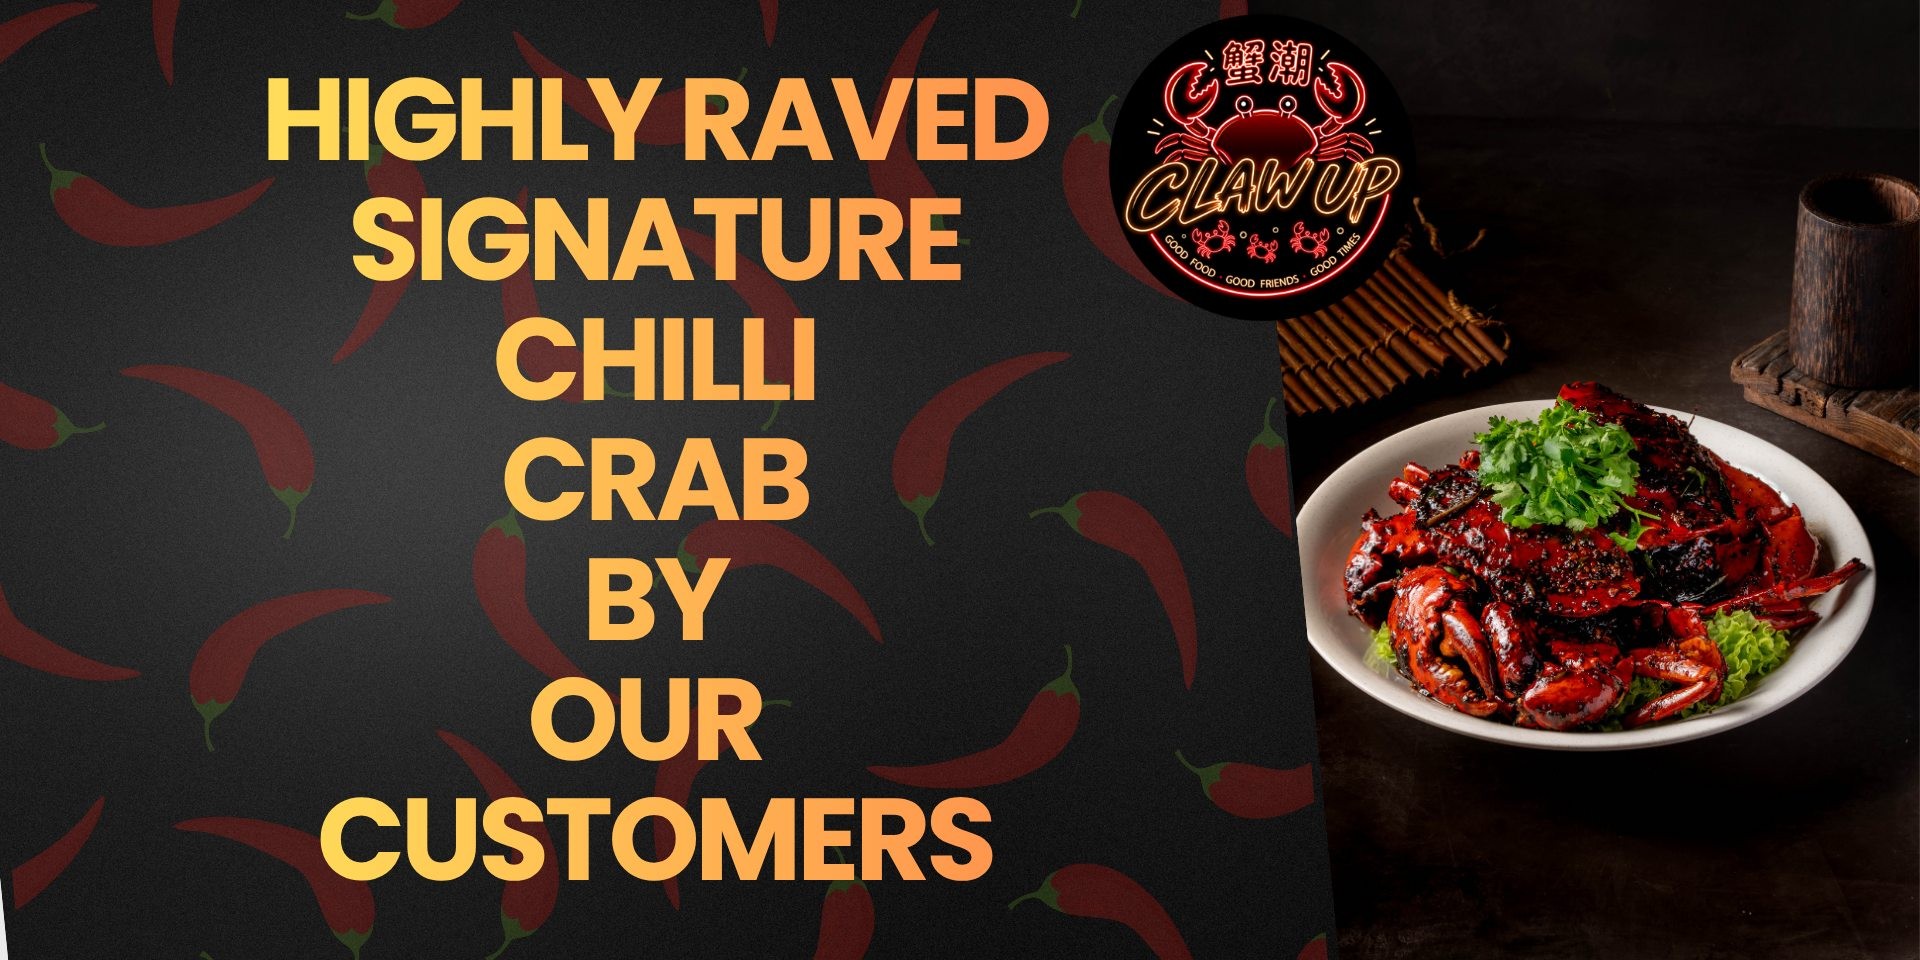
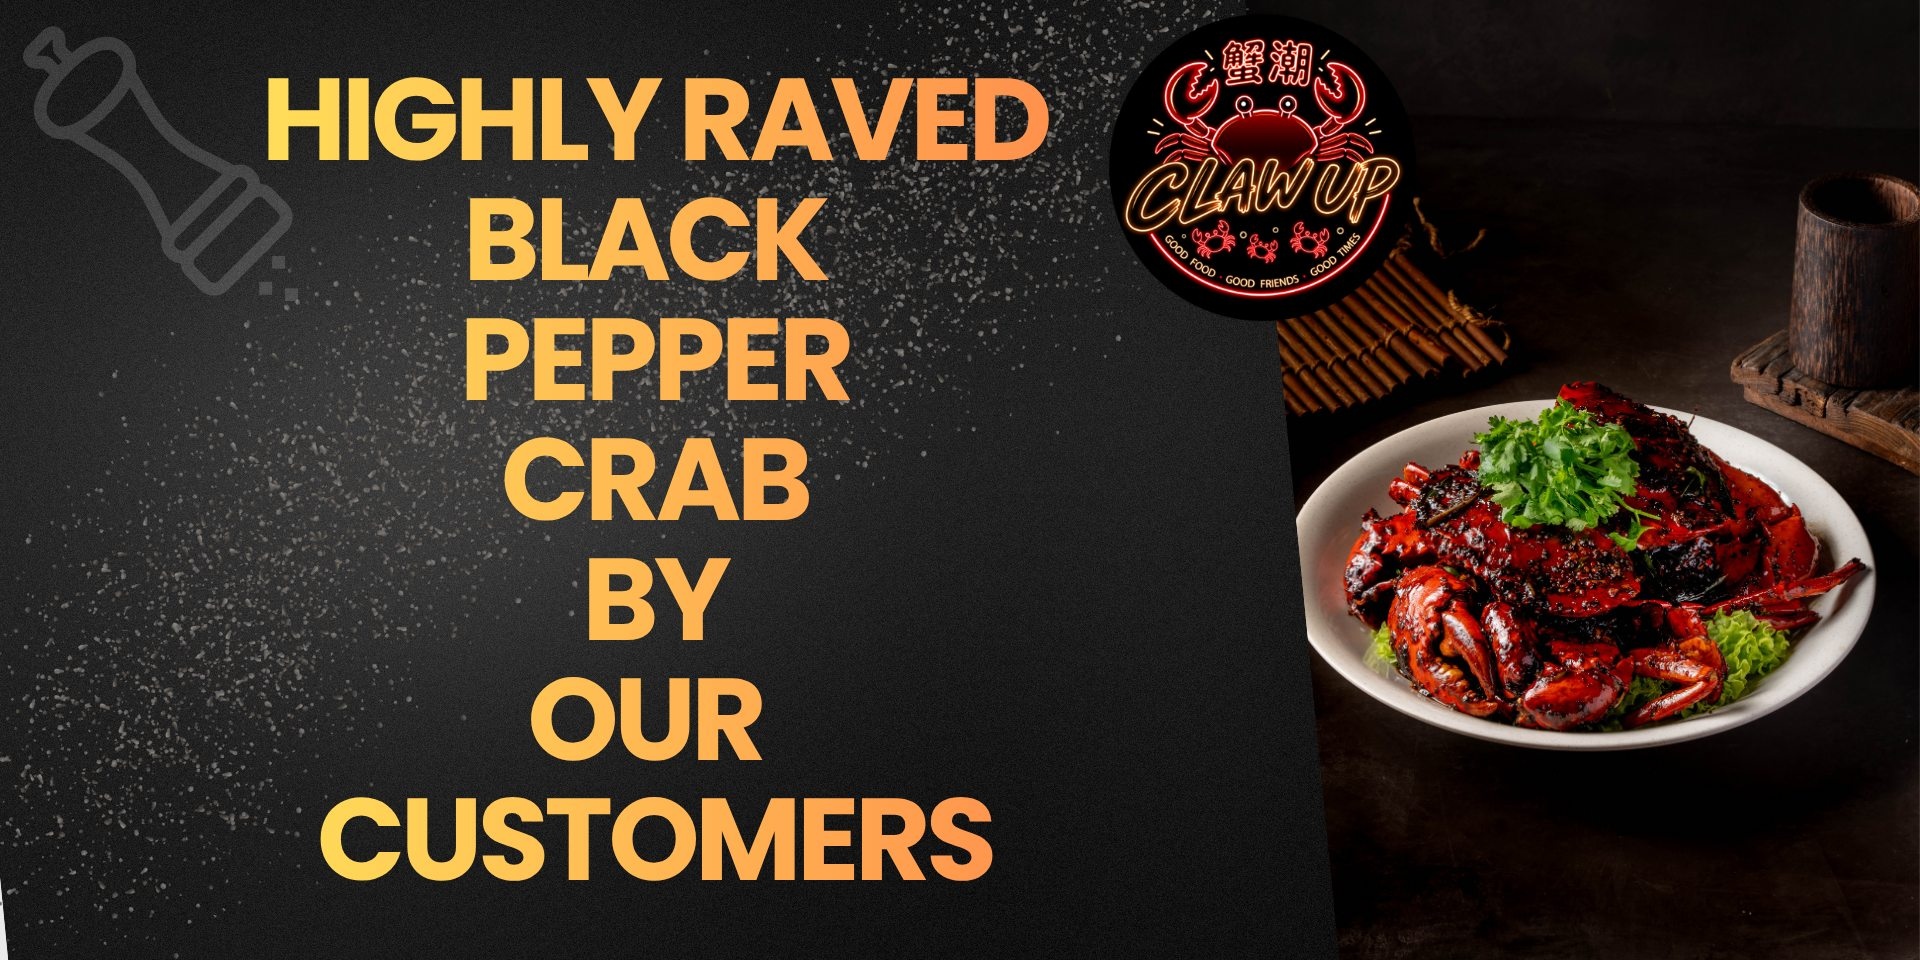
changes

diff --git a/index.html b/index.html
@@ -22,11 +22,11 @@
     <div class="header-actions">
       <a href="https://selforder.ireachfnb.com/checkin/6a7004a13b4923145022e717" class="nav-menu-btn" target="_blank" rel="noopener"><svg viewBox="0 0 24 24" width="16" height="16" fill="none" stroke="currentColor" stroke-width="2.2" stroke-linecap="round" stroke-linejoin="round" aria-hidden="true"><path d="M6 7h12l1 13H5L6 7Z"/><path d="M9 7a3 3 0 0 1 6 0"/></svg><span>Order Now</span></a>
       <nav class="social-nav" aria-label="Social media links">
-        <a href="https://www.facebook.com/Clawupsingapore/" aria-label="Facebook" class="icon-link" target="_blank" rel="noopener">
+        <a href="https://www.facebook.com/profile.php?id=61594282491143" aria-label="Facebook" class="icon-link" target="_blank" rel="noopener">
           <svg viewBox="0 0 24 24" width="18" height="18" fill="currentColor"><path d="M22 12a10 10 0 1 0-11.6 9.9v-7H7.9V12h2.5V9.8c0-2.5 1.5-3.9 3.8-3.9 1.1 0 2.2.2 2.2.2v2.4h-1.2c-1.2 0-1.6.8-1.6 1.6V12h2.8l-.4 2.9h-2.4v7A10 10 0 0 0 22 12Z"/></svg>
         </a>
         <a href="https://www.instagram.com/clawupsingapore/" aria-label="Instagram" class="icon-link" target="_blank" rel="noopener">
-          <svg viewBox="0 0 24 24" width="18" height="18" fill="currentColor"><path d="M12 2c2.7 0 3.06.01 4.12.06 1.06.05 1.79.22 2.43.47a4.9 4.9 0 0 1 1.77 1.15 4.9 4.9 0 0 1 1.15 1.77c.25.64.42 1.37.47 2.43.05 1.06.06 1.42.06 4.12s-.01 3.06-.06 4.12c-.05 1.06-.22 1.79-.47 2.43a4.9 4.9 0 0 1-1.15 1.77 4.9 4.9 0 0 1-1.77 1.15c-.64.25-1.37.42-2.43.47C15.06 21.99 14.7 22 12 22s-3.06-.01-4.12-.06c-1.06-.05-1.79-.22-2.43-.47a4.9 4.9 0 0 1-1.77-1.15 4.9 4.9 0 0 1-1.15-1.77c-.25-.64-.42-1.37-.47-2.43C2.01 15.06 2 14.7 2 12s.01-3.06.06-4.12c.05-1.06.22-1.79.47-2.43a4.9 4.9 0 0 1 1.15-1.77A4.9 4.9 0 0 1 5.45.53C6.09.28 6.82.11 7.88.06 8.94.01 9.3 0 12 0Zm0 5a5 5 0 1 1 0 10 5 5 0 0 1 0-10Zm0 1.8a3.2 3.2 0 1 0 0 6.4 3.2 3.2 0 0 0 0-6.4ZM17.4 4.6a1.2 1.2 0 1 1 0 2.4 1.2 1.2 0 0 1 0-2.4Z" transform="translate(0 2)"/></svg>
+          <svg viewBox="0 0 24 24" width="18" height="18" fill="none" stroke="currentColor" stroke-width="2" aria-hidden="true"><rect x="3" y="3" width="18" height="18" rx="5"/><circle cx="12" cy="12" r="4"/><circle cx="17.5" cy="6.5" r="1" fill="currentColor" stroke="none"/></svg>
         </a>
       </nav>
     </div>
@@ -50,20 +50,23 @@
 <section class="hero page-section" id="top" aria-roledescription="carousel" aria-label="Current promotions">
   <h1 class="visually-hidden">Claw Up Seafood &amp; Zichar</h1>
   <div class="hero-track">
-    <a class="hero-slide" href="https://selforder.ireachfnb.com/checkin/6a7004a13b4923145022e717" target="_blank" rel="noopener" role="group" aria-roledescription="slide" aria-label="1 of 5">
-      <img src="assets/img/hero/hero-1-1920.jpg" srcset="assets/img/hero/hero-1-960.jpg 960w, assets/img/hero/hero-1-1920.jpg 1920w" sizes="(min-width: 1328px) 1280px, 100vw" alt="Online Special Set $188. Set includes 700g crabs x 2 (Mongolian Truffle Crab and Chilli Crab or Black Pepper Crab), Traditional Paku Vegetable, Seafood White Noodles, Marmite Chicken and Shrimp Omelette." width="1920" height="960" loading="eager" decoding="async">
+    <a class="hero-slide" href="https://selforder.ireachfnb.com/checkin/6a7004a13b4923145022e717" target="_blank" rel="noopener" role="group" aria-roledescription="slide" aria-label="1 of 6">
+      <img src="assets/img/hero/hero-1-1920.jpg" srcset="assets/img/hero/hero-1-960.jpg 960w, assets/img/hero/hero-1-1920.jpg 1920w" sizes="(min-width: 1328px) 1280px, 100vw" alt="Online Special Set $168. Set for 4 to 6 pax includes 700g crabs x 2, Traditional Paku Vegetables, Seafood White Noodles or Sambal Fried Rice, Marmite Chicken and Shrimp Omelette." width="1920" height="960" loading="eager" decoding="async">
     </a>
-    <a class="hero-slide" href="https://selforder.ireachfnb.com/checkin/6a7004a13b4923145022e717" target="_blank" rel="noopener" role="group" aria-roledescription="slide" aria-label="2 of 5">
-      <img src="assets/img/hero/hero-2-1920.jpg" srcset="assets/img/hero/hero-2-960.jpg 960w, assets/img/hero/hero-2-1920.jpg 1920w" sizes="(min-width: 1328px) 1280px, 100vw" alt="Crabs are now 1 for 1! Black pepper crab, creamy corn crab and chilli crab." width="1920" height="960" loading="lazy" decoding="async">
+    <a class="hero-slide" href="https://selforder.ireachfnb.com/checkin/6a7004a13b4923145022e717" target="_blank" rel="noopener" role="group" aria-roledescription="slide" aria-label="2 of 6">
+      <img src="assets/img/hero/hero-2-1920.jpg" srcset="assets/img/hero/hero-2-960.jpg 960w, assets/img/hero/hero-2-1920.jpg 1920w" sizes="(min-width: 1328px) 1280px, 100vw" alt="Special Online Crab Feast $170. 2 XXL crabs, approximately 1kg each." width="1920" height="960" loading="lazy" decoding="async">
     </a>
-    <a class="hero-slide" href="menu.html#cat-crab" role="group" aria-roledescription="slide" aria-label="3 of 5">
-      <img src="assets/img/hero/hero-3-1920.jpg" srcset="assets/img/hero/hero-3-960.jpg 960w, assets/img/hero/hero-3-1920.jpg 1920w" sizes="(min-width: 1328px) 1280px, 100vw" alt="Singapore first creamy corn crab topped with popcorn." width="1920" height="960" loading="lazy" decoding="async">
+    <a class="hero-slide" href="https://selforder.ireachfnb.com/checkin/6a7004a13b4923145022e717" target="_blank" rel="noopener" role="group" aria-roledescription="slide" aria-label="3 of 6">
+      <img src="assets/img/hero/hero-3-1920.jpg" srcset="assets/img/hero/hero-3-960.jpg 960w, assets/img/hero/hero-3-1920.jpg 1920w" sizes="(min-width: 1328px) 1280px, 100vw" alt="Crabs are now 1 for 1! Black pepper crab, creamy corn crab and chilli crab." width="1920" height="960" loading="lazy" decoding="async">
     </a>
-    <a class="hero-slide" href="menu.html#cat-crab" role="group" aria-roledescription="slide" aria-label="4 of 5">
-      <img src="assets/img/hero/hero-4-1920.jpg" srcset="assets/img/hero/hero-4-960.jpg 960w, assets/img/hero/hero-4-1920.jpg 1920w" sizes="(min-width: 1328px) 1280px, 100vw" alt="Highly raved black pepper crab by our customers." width="1920" height="960" loading="lazy" decoding="async">
+    <a class="hero-slide" href="menu.html#cat-crab" role="group" aria-roledescription="slide" aria-label="4 of 6">
+      <img src="assets/img/hero/hero-4-1920.jpg" srcset="assets/img/hero/hero-4-960.jpg 960w, assets/img/hero/hero-4-1920.jpg 1920w" sizes="(min-width: 1328px) 1280px, 100vw" alt="Singapore first creamy corn crab topped with popcorn." width="1920" height="960" loading="lazy" decoding="async">
     </a>
-    <a class="hero-slide" href="menu.html#cat-crab" role="group" aria-roledescription="slide" aria-label="5 of 5">
-      <img src="assets/img/hero/hero-5-1920.jpg" srcset="assets/img/hero/hero-5-960.jpg 960w, assets/img/hero/hero-5-1920.jpg 1920w" sizes="(min-width: 1328px) 1280px, 100vw" alt="Highly raved signature chilli crab by our customers." width="1920" height="960" loading="lazy" decoding="async">
+    <a class="hero-slide" href="menu.html#cat-crab" role="group" aria-roledescription="slide" aria-label="5 of 6">
+      <img src="assets/img/hero/hero-5-1920.jpg" srcset="assets/img/hero/hero-5-960.jpg 960w, assets/img/hero/hero-5-1920.jpg 1920w" sizes="(min-width: 1328px) 1280px, 100vw" alt="Highly raved black pepper crab by our customers." width="1920" height="960" loading="lazy" decoding="async">
+    </a>
+    <a class="hero-slide" href="menu.html#cat-crab" role="group" aria-roledescription="slide" aria-label="6 of 6">
+      <img src="assets/img/hero/hero-6-1920.jpg" srcset="assets/img/hero/hero-6-960.jpg 960w, assets/img/hero/hero-6-1920.jpg 1920w" sizes="(min-width: 1328px) 1280px, 100vw" alt="Highly raved signature chilli crab by our customers." width="1920" height="960" loading="lazy" decoding="async">
     </a>
   </div>
 
@@ -80,6 +83,7 @@
     <button class="hero-dot" type="button" role="tab" aria-label="Go to slide 3" aria-selected="false"></button>
     <button class="hero-dot" type="button" role="tab" aria-label="Go to slide 4" aria-selected="false"></button>
     <button class="hero-dot" type="button" role="tab" aria-label="Go to slide 5" aria-selected="false"></button>
+    <button class="hero-dot" type="button" role="tab" aria-label="Go to slide 6" aria-selected="false"></button>
   </div>
 </section>
 
@@ -242,7 +246,7 @@
               <li><strong>1.5 points</strong> per $1 spent</li>
               <li>Bonus 40 points on your 4th visit</li>
               <li>Access to members-only promotions</li>
-              <li>Special Birthday Reward: 1 Single 700g Crab + Cake</li>
+              <li>Special Birthday Reward: 1 Single 1kg Crab + Cake</li>
             </ul>
           </article>
           <article class="card tier-card tier-gold">
@@ -352,7 +356,7 @@
           <p class="socials-title">Follow Us on Our Socials</p>
           <p class="card-text">New dishes, promos and behind-the-wok moments.</p>
           <ul class="socials-list">
-            <li><a class="social-btn" href="https://www.facebook.com/Clawupsingapore/" target="_blank" rel="noopener"><svg viewBox="0 0 24 24" width="20" height="20" fill="currentColor" aria-hidden="true"><path d="M22 12a10 10 0 1 0-11.6 9.9v-7H7.9V12h2.5V9.8c0-2.5 1.5-3.9 3.8-3.9 1.1 0 2.2.2 2.2.2v2.4h-1.2c-1.2 0-1.6.8-1.6 1.6V12h2.8l-.4 2.9h-2.4v7A10 10 0 0 0 22 12Z"/></svg><span>Facebook</span></a></li>
+            <li><a class="social-btn" href="https://www.facebook.com/profile.php?id=61594282491143" target="_blank" rel="noopener"><svg viewBox="0 0 24 24" width="20" height="20" fill="currentColor" aria-hidden="true"><path d="M22 12a10 10 0 1 0-11.6 9.9v-7H7.9V12h2.5V9.8c0-2.5 1.5-3.9 3.8-3.9 1.1 0 2.2.2 2.2.2v2.4h-1.2c-1.2 0-1.6.8-1.6 1.6V12h2.8l-.4 2.9h-2.4v7A10 10 0 0 0 22 12Z"/></svg><span>Facebook</span></a></li>
             <li><a class="social-btn" href="https://www.instagram.com/clawupsingapore/" target="_blank" rel="noopener"><svg viewBox="0 0 24 24" width="20" height="20" fill="none" stroke="currentColor" stroke-width="2" aria-hidden="true"><rect x="3" y="3" width="18" height="18" rx="5"/><circle cx="12" cy="12" r="4"/><circle cx="17.5" cy="6.5" r="1" fill="currentColor" stroke="none"/></svg><span>Instagram</span></a></li>
             <li><a class="social-btn" href="https://wa.me/6589016823" target="_blank" rel="noopener"><svg viewBox="0 0 24 24" width="20" height="20" fill="none" stroke="currentColor" stroke-width="2" stroke-linecap="round" stroke-linejoin="round" aria-hidden="true"><path d="M3.5 20.5l1.3-4A8.5 8.5 0 1 1 8 19.6l-4.5.9Z"/></svg><span>WhatsApp</span></a></li>
           </ul>

diff --git a/menu.html b/menu.html
@@ -21,11 +21,11 @@
     <div class="header-actions">
       <a href="https://selforder.ireachfnb.com/checkin/6a7004a13b4923145022e717" class="nav-menu-btn" target="_blank" rel="noopener"><svg viewBox="0 0 24 24" width="16" height="16" fill="none" stroke="currentColor" stroke-width="2.2" stroke-linecap="round" stroke-linejoin="round" aria-hidden="true"><path d="M6 7h12l1 13H5L6 7Z"/><path d="M9 7a3 3 0 0 1 6 0"/></svg><span>Order Now</span></a>
       <nav class="social-nav" aria-label="Social media links">
-        <a href="https://www.facebook.com/Clawupsingapore/" aria-label="Facebook" class="icon-link" target="_blank" rel="noopener">
+        <a href="https://www.facebook.com/profile.php?id=61594282491143" aria-label="Facebook" class="icon-link" target="_blank" rel="noopener">
           <svg viewBox="0 0 24 24" width="18" height="18" fill="currentColor"><path d="M22 12a10 10 0 1 0-11.6 9.9v-7H7.9V12h2.5V9.8c0-2.5 1.5-3.9 3.8-3.9 1.1 0 2.2.2 2.2.2v2.4h-1.2c-1.2 0-1.6.8-1.6 1.6V12h2.8l-.4 2.9h-2.4v7A10 10 0 0 0 22 12Z"/></svg>
         </a>
         <a href="https://www.instagram.com/clawupsingapore/" aria-label="Instagram" class="icon-link" target="_blank" rel="noopener">
-          <svg viewBox="0 0 24 24" width="18" height="18" fill="currentColor"><path d="M12 2c2.7 0 3.06.01 4.12.06 1.06.05 1.79.22 2.43.47a4.9 4.9 0 0 1 1.77 1.15 4.9 4.9 0 0 1 1.15 1.77c.25.64.42 1.37.47 2.43.05 1.06.06 1.42.06 4.12s-.01 3.06-.06 4.12c-.05 1.06-.22 1.79-.47 2.43a4.9 4.9 0 0 1-1.15 1.77 4.9 4.9 0 0 1-1.77 1.15c-.64.25-1.37.42-2.43.47C15.06 21.99 14.7 22 12 22s-3.06-.01-4.12-.06c-1.06-.05-1.79-.22-2.43-.47a4.9 4.9 0 0 1-1.77-1.15 4.9 4.9 0 0 1-1.15-1.77c-.25-.64-.42-1.37-.47-2.43C2.01 15.06 2 14.7 2 12s.01-3.06.06-4.12c.05-1.06.22-1.79.47-2.43a4.9 4.9 0 0 1 1.15-1.77A4.9 4.9 0 0 1 5.45.53C6.09.28 6.82.11 7.88.06 8.94.01 9.3 0 12 0Zm0 5a5 5 0 1 1 0 10 5 5 0 0 1 0-10Zm0 1.8a3.2 3.2 0 1 0 0 6.4 3.2 3.2 0 0 0 0-6.4ZM17.4 4.6a1.2 1.2 0 1 1 0 2.4 1.2 1.2 0 0 1 0-2.4Z" transform="translate(0 2)"/></svg>
+          <svg viewBox="0 0 24 24" width="18" height="18" fill="none" stroke="currentColor" stroke-width="2" aria-hidden="true"><rect x="3" y="3" width="18" height="18" rx="5"/><circle cx="12" cy="12" r="4"/><circle cx="17.5" cy="6.5" r="1" fill="currentColor" stroke="none"/></svg>
         </a>
       </nav>
     </div>

diff --git a/assets/css/style.css b/assets/css/style.css
@@ -41,7 +41,7 @@ a { color: inherit; }
 
 /* Header */
 .site-header {
-  background: rgba(0, 0, 0, 0.94); /* stays black: the neon logo artwork has a black background */
+  background: var(--charcoal);
   backdrop-filter: blur(8px);
   position: sticky;
   top: 0;
@@ -82,7 +82,7 @@ a { color: inherit; }
   width: 36px;
   height: 36px;
   border-radius: 50%;
-  background: #2a2e31;
+  background: rgba(255, 255, 255, 0.1);
   color: #e6e8ea;
   text-decoration: none;
   transition: background 0.15s ease;
